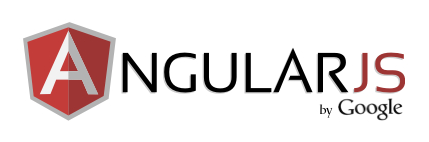
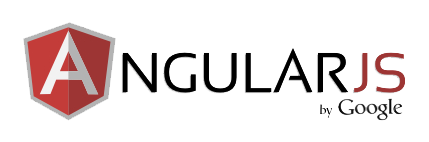
change project image

diff --git a/core/public/css/project.css b/core/public/css/project.css
@@ -400,8 +400,13 @@ a:hover {
   -webkit-justify-content: center;
   -ms-justify-content: center;
   justify-content: center;
+  -webkit-box-align: center;
+  -webkit-align-items: center;
+  -moz-align-items: center;
+  -ms-align-items: center;
+  -o-align-items: center;
+  align-items: center;
 }
 .img-inner img {
-  width: auto;
-  height: 100px;
+  margin: 0 0.8rem;
 }

diff --git a/core/public/less/project.less b/core/public/less/project.less
@@ -237,8 +237,8 @@ a {
     .display-flex();
     .flex(1 0 100%);
     .justify-content(center);
+    .align-items(center);
     img {
-        width: auto;
-        height: 100px;
+        margin:0 0.8rem;
     }
 }
